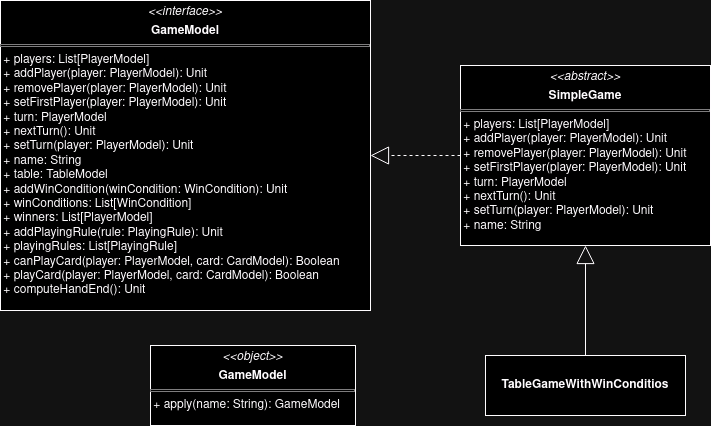
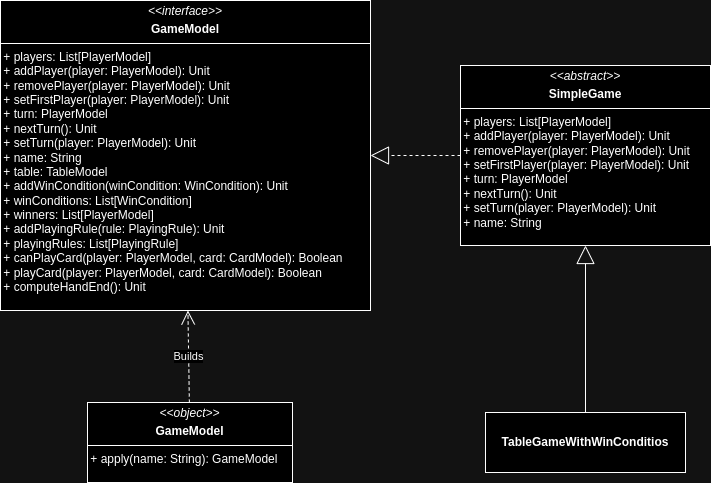
fix: reversed rank order in demo. updated doc

diff --git a/docs/8_conclusion/index.md b/docs/8_conclusion/index.md
@@ -14,6 +14,10 @@ The testing could be extended to comprehend the Controller and View modules of t
 
 The current form of the game rules definition in the DSL are implemented as plain scala lambdas. This means that the user would have to understand the structure of the game Model in order to define rules. This could be improved by implementing keywords for the most common rules present in card games enabeling the DSL to be more expressive and ensurng the user does not need to have knowledge of the engine's implementation.
 
+The players currently see the other player cards. A feature could be implemented to disable the text of the cards of the players that are not currently on turn so that each player can only see his/her cards.
+
+The GUI could be updated with info about the game state such as player point and current turn.
+
 ## Git flow
 
 The team is happy of how git flow was used during project development although often feature branches where merged with the develop branch before the feature was complete due to misunderstandings on feature completenes between team members.

diff --git a/docs/1_introduction/index.md b/docs/1_introduction/index.md
@@ -28,7 +28,7 @@ The following is an example of the game marafone defined with the Card Game Engi
     game gives 10 cards to each player
     game starts from player "Player 1"
     game suitsAre ("Batons", "Coins", "Cups", "Swords")
-    game ranksAre ("Ace", "Two", "Three", "Four", "Five", "Six", "Seven", "Eight", "Nine", "Ten", "Jack", "Queen", "King")
+    game ranksAre ("Seven", "Six", "Five", "Four", "Knave", "Knight", "King", "Ace", "Two", "Three")
     game trumpIs "Batons"
     game playing rules are:
       (table, player, playerCard) => 
@@ -129,7 +129,7 @@ Where:
 
 As a good practice ranks' order defines their relative strenght.
 
-This means that the example defines the \<rank1\> to be the strongest rank and \<rank4\> the weakest.
+This means that the example defines the \<rank4\> to be the strongest rank and \<rank1> the weakest.
 
 #### Trump
 

diff --git a/docs/4_architectural_design/index.md b/docs/4_architectural_design/index.md
@@ -16,8 +16,6 @@ The project can be divided into two main parts:
 
 The user defined rules for the game are stored entirely in the Model, while the Controller and View are constant for every game iteration. This ensures that the View and Model have no dependency and updates to one of them would only require implementation of new features to them selves or at most the Controller.
 
-TODO add simple uml of the project.
-
 ## DSL
 
 The DSL provides a Domain Specific Language to enable the user to define a card game using domain terminology.
